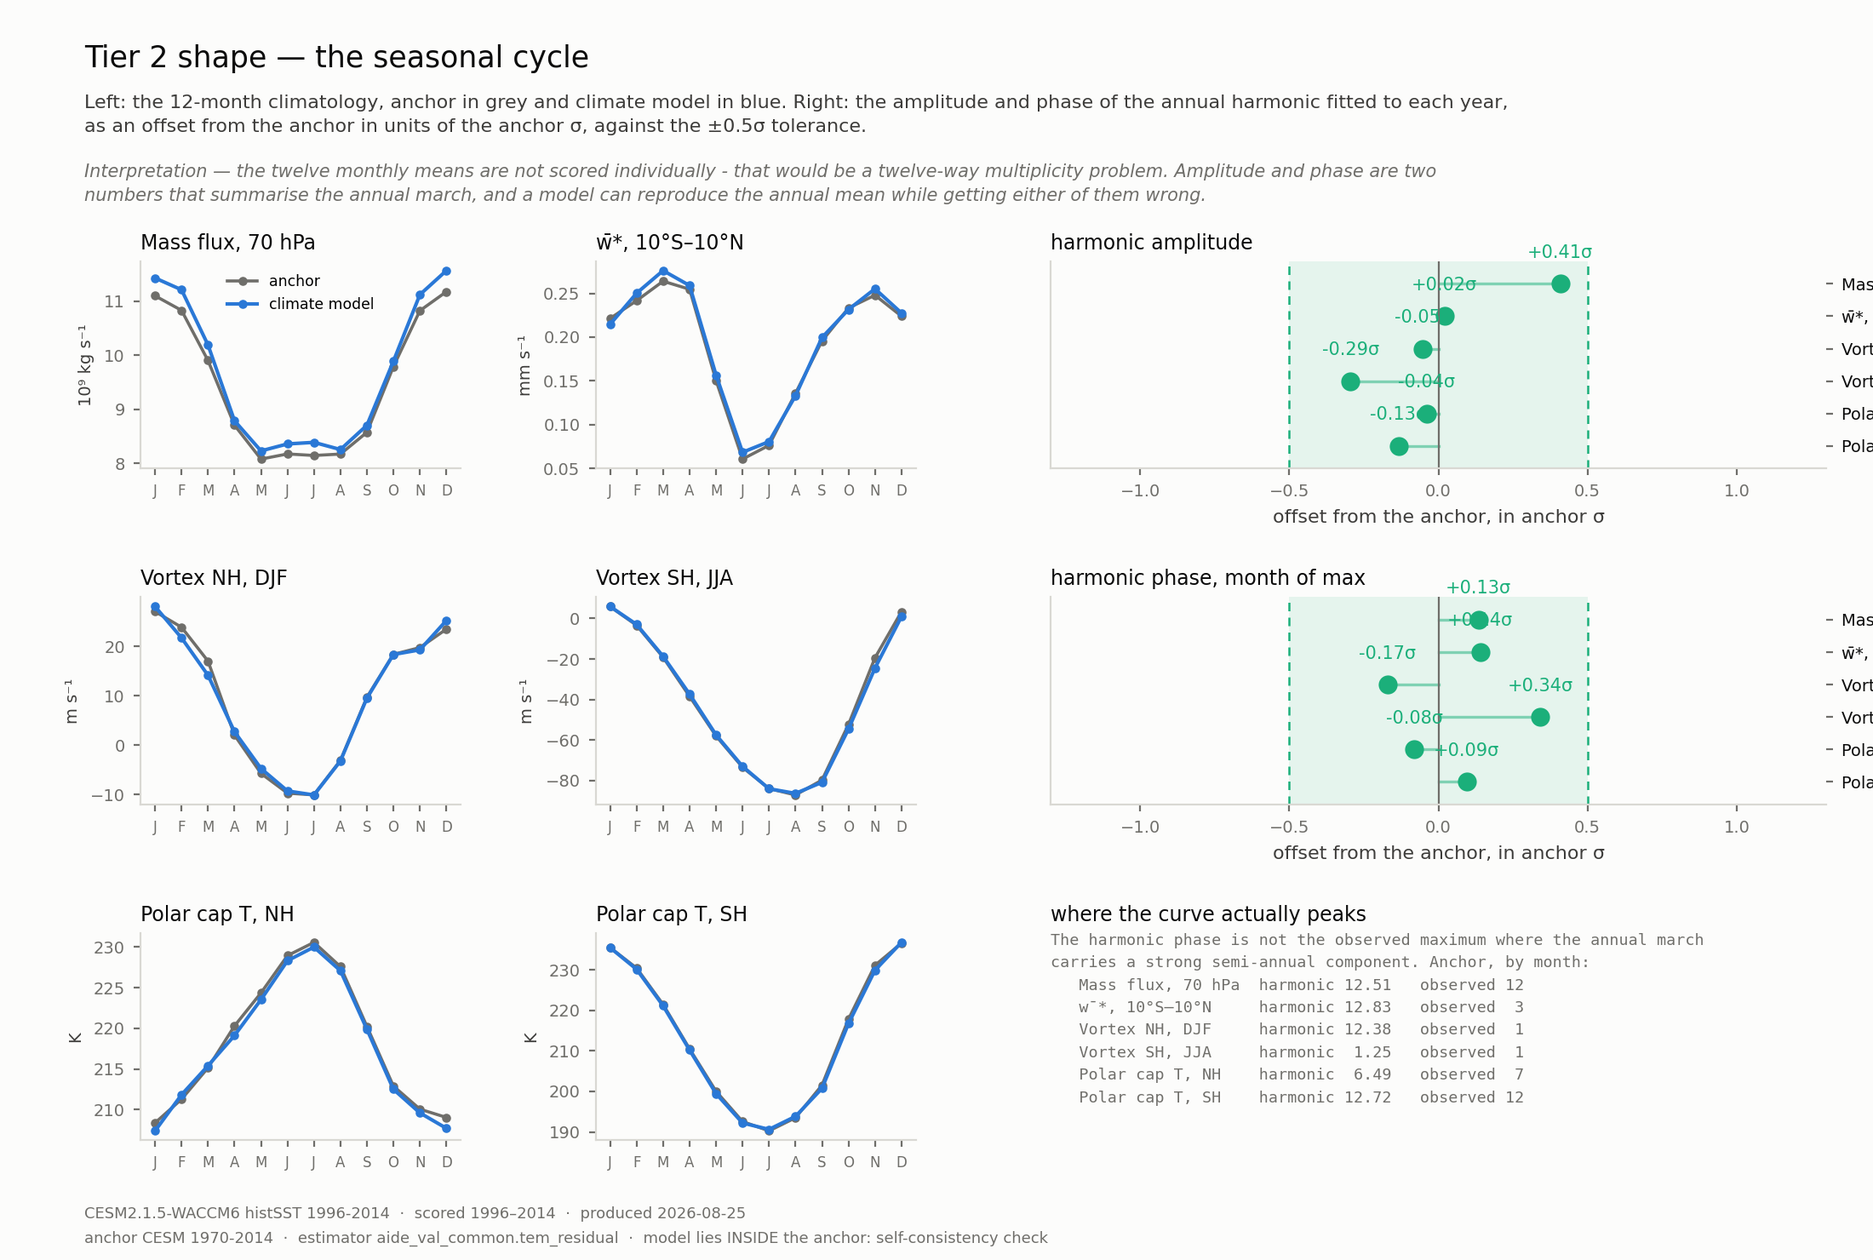
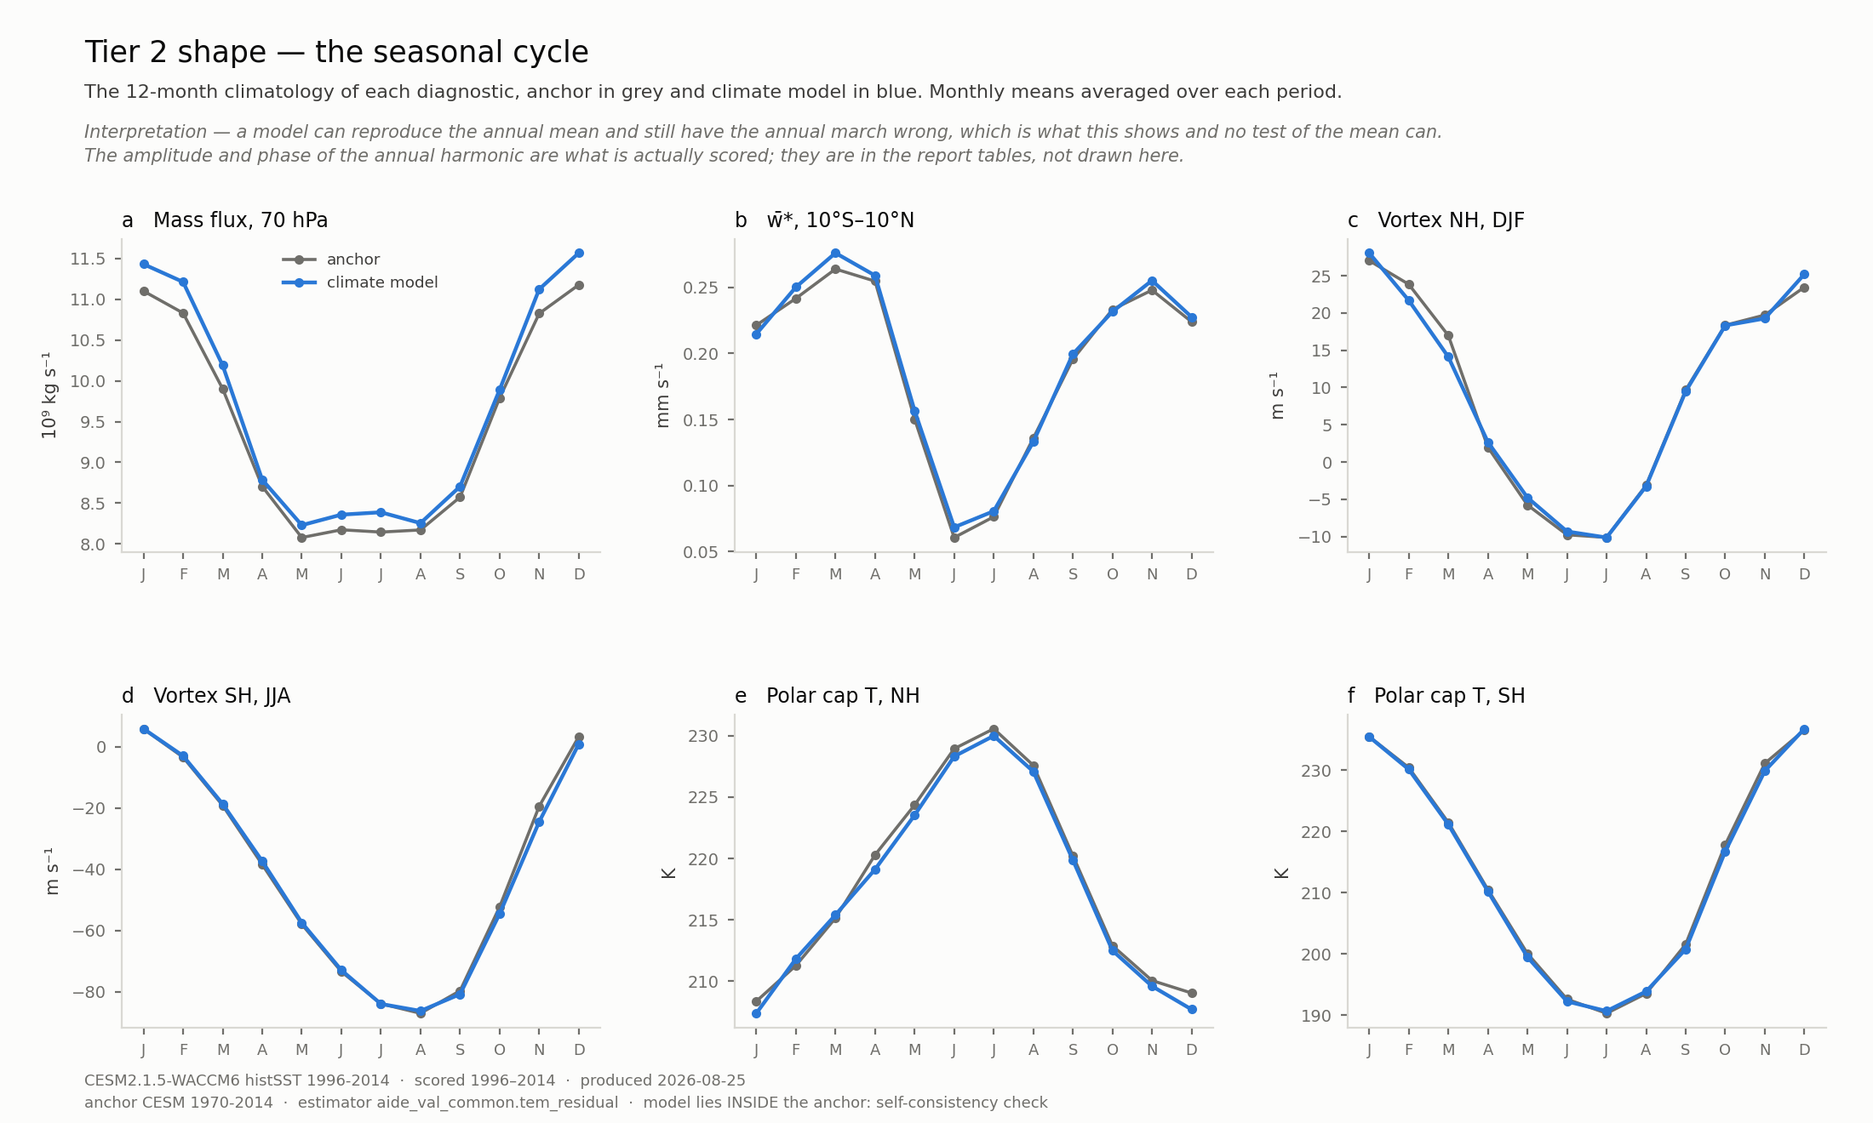
Trim the figure set to seven
Three requested changes, all to what is drawn. None of the underlying checks
changes: the annual-harmonic amplitude and phase are still fitted, gated and
tabulated in the report, the two mechanism slopes are still scored, and the
trend table is still section 3.4. Only the figures are affected.

shape_seasonal now shows the 12-month climatology alone, six panels on a 2x3
grid instead of six climatologies plus two offset panels and a text block. The
interpretation line says where the amplitude and phase verdicts live, so a
reader is not left wondering why the figure shows a curve the report scores by
two numbers.

counts_and_relations keeps the major NH SSW panel and drops the two mechanism
scatter panels, so it is a single plot rather than a strip of three. The
acceptance interval moved into the panel as a label, and the anchor rate is on
the subtitle now that there is room. The file name is unchanged and is now
slightly wide of what it holds - renaming it is a one-line change if wanted,
but it renames a committed artefact, so it is left alone.

trends is removed: the figure, the function that drew it, its call, and its row
in the report's evidence table.

fig_counts no longer needs the series, so it takes (A, res) rather than
(A, res, S, segs). Figure counts in README, CLAUDE.md and the protocol go from
eight to seven.

diff --git a/AIDE-atmosphere/scripts/18_validation_figures.py b/AIDE-atmosphere/scripts/18_validation_figures.py
@@ -7,7 +7,7 @@ at rather than a number to trust:
   tier1_screening.png       every climate-model year against the +/-3 sigma band
   tier2_mean.png            offset from the anchor against the +/-0.5 sigma tolerance
   tier2_variance.png        sigma ratios against their 95% windows
-  counts_and_relations.png  the SSW count, and the two mechanism slopes
+  counts_and_relations.png  the major NH SSW count against its Poisson interval
 
 Reads output/16_anchors_45yr__<stamp>.json, written by 17, plus the series in
 output/07_period_split.json. Run after 17.
@@ -221,16 +221,20 @@ def fig_variance(A, res):
     save(fig, "tier2_variance.png", res["stamp"])
 
 
-# ------------------------------------------------------- counts and relations
-def fig_counts(A, res, S, segs):
-    fig = newfig(11.0, 4.3, "Tier 2 — the count, and the mechanism relations",
-                 "Left: major NH sudden stratospheric warmings against the Poisson "
-                 "interval implied by the anchor rate. Right: the two mechanism "
-                 "slopes, climate-model fit against the anchor's bootstrap CI.")
+# ------------------------------------------------------------------- the count
+def fig_counts(A, res):
     s = res["counts"]["ssw_NH"]
-    ax = style(fig.add_subplot(1, 3, 1), "a   Major NH SSW",
+    fig = newfig(6.6, 4.6, "Tier 2 — the major NH SSW count",
+                 "Major sudden stratospheric warmings against the Poisson interval "
+                 "implied by the anchor rate. Blue bars are the 95% acceptance "
+                 "interval; grey bars fall outside it.",
+                 "a count, not a rate: a rate band needs about 23 winters before it "
+                 "is resolvable at all, while a count interval is well defined at any "
+                 "length (D6).")
+    ax = style(fig.add_subplot(111), None,
                f"{s['climate_model_count']} in {s['climate_model_winters']} winters · "
-               f"expect {s['expected']:.1f} · "
+               f"expect {s['expected']:.1f} · anchor rate "
+               f"{s['anchor_rate']:.3f}/winter · "
                f"{'PASS' if s['passes'] else 'FAIL'}")
     ilo, ihi = s["interval"]
     xs = np.arange(max(0, ilo - 4), ihi + 5)
@@ -239,44 +243,16 @@ def fig_counts(A, res, S, segs):
            color=[BLUE if ilo <= x <= ihi else RULE for x in xs], lw=0)
     c = PASS if s["passes"] else FAIL
     ax.axvline(s["climate_model_count"], color=c, lw=1.6)
-    ax.annotate(f"climate model {s['climate_model_count']}", (s["climate_model_count"], 1.0),
+    ax.annotate(f"climate model {s['climate_model_count']}",
+                (s["climate_model_count"], 1.0),
                 xycoords=("data", "axes fraction"), textcoords="offset points",
                 xytext=(4, -8), color=c, fontsize=7.5)
+    ax.annotate(f"accept {ilo}–{ihi} events", (0.025, 0.95),
+                xycoords="axes fraction", color=BLUE, fontsize=7.5, ha="left")
     ax.set_xlabel("events", color=INK2, fontsize=8)
     ax.set_ylabel("Poisson probability", color=INK2, fontsize=8)
-
-    lo, hi = res["climate_model_period"]
-    panels = [("R1 wave->vortex", "heat_flux_100", "vortex_NH",
-               "v'θ' 100 hPa, 45–75°N  [K m s⁻¹]", "u 60°N DJF  [m s⁻¹]"),
-              ("R2 thermal wind", "polar_cap_T_NH", "vortex_NH",
-               "polar cap T, NH  [K]", "u 60°N DJF  [m s⁻¹]")]
-    for j, (tag, xk, yk, xlab, ylab) in enumerate(panels):
-        m = res["mechanism"][tag]
-        ax = style(fig.add_subplot(1, 3, j + 2))
-        yx, vx = C.join_segments(S, segs, xk, "_djf_years")
-        yy, vy = C.join_segments(S, segs, yk, "_djf_years")
-        n = min(len(vx), len(vy))
-        inc = (yx[:n] >= lo) & (yx[:n] <= hi)
-        ax.plot(vx[:n][~inc], vy[:n][~inc], "o", ms=3, color=RULE, mec="none")
-        ax.plot(vx[:n][inc], vy[:n][inc], "o", ms=3.6, color=BLUE, mec="none")
-        xx = np.linspace(vx[:n].min(), vx[:n].max(), 2)
-        a_int = vy[:n].mean() - m["anchor_slope"] * vx[:n].mean()
-        ax.plot(xx, m["anchor_slope"] * xx + a_int, color=MUTED, lw=1.1,
-                label=f"anchor {m['anchor_slope']:+.2f}")
-        c_int = (vy[:n][inc].mean() - m["climate_model_slope"] * vx[:n][inc].mean())
-        col = PASS if m["passes"] else FAIL
-        ax.plot(xx, m["climate_model_slope"] * xx + c_int, color=col, lw=1.4,
-                label=f"climate model {m['climate_model_slope']:+.2f}")
-        lg = ax.legend(frameon=False, fontsize=7, loc="best")
-        for t in lg.get_texts():
-            t.set_color(INK2)
-        ax.set_xlabel(xlab, color=INK2, fontsize=7.5)
-        ax.set_ylabel(ylab, color=INK2, fontsize=7.5)
-        style(ax, f"{'bc'[j]}   {tag}",
-              f"anchor CI {m['anchor_ci95'][0]:+.2f} to "
-              f"{m['anchor_ci95'][1]:+.2f} · "
-              f"{'PASS' if m['passes'] else 'FAIL'}")
-    fig.subplots_adjust(left=0.06, right=0.985, top=fig.text_bottom - 0.098, bottom=0.19, wspace=0.30)
+    fig.subplots_adjust(left=0.135, right=0.965, top=fig.text_bottom - 0.075,
+                        bottom=0.135)
     footer(fig, res)
     save(fig, "counts_and_relations.png", res["stamp"])
 
@@ -311,58 +287,31 @@ def _tolerance_axis(ax, offsets, xlabel, n):
 
 
 def fig_seasonal(A, res):
-    fig = newfig(11.0, 7.4, "Tier 2 shape — the seasonal cycle",
-                 "Left: the 12-month climatology, anchor in grey and climate model "
-                 "in blue. Right: the amplitude and phase of the annual harmonic "
-                 "fitted to each year, as an offset from the anchor in units of the "
-                 "anchor σ, against the ±0.5σ tolerance.",
-                 "the twelve monthly means are not scored individually - that would "
-                 "be a twelve-way multiplicity problem. Amplitude and phase are two "
-                 "numbers that summarise the annual march, and a model can reproduce "
-                 "the annual mean while getting either of them wrong.")
-    gs = fig.add_gridspec(3, 4, hspace=0.62, wspace=0.42)
+    fig = newfig(11.0, 6.6, "Tier 2 shape — the seasonal cycle",
+                 "The 12-month climatology of each diagnostic, anchor in grey and "
+                 "climate model in blue. Monthly means averaged over each period.",
+                 "a model can reproduce the annual mean and still have the annual "
+                 "march wrong, which is what this shows and no test of the mean can. "
+                 "The amplitude and phase of the annual harmonic are what is actually "
+                 "scored; they are in the report tables, not drawn here.")
+    gs = fig.add_gridspec(2, 3, hspace=0.52, wspace=0.28)
     x = np.arange(1, 13)
     for i, (key, _, label, unit) in enumerate(SERIES):
-        ax = style(fig.add_subplot(gs[i // 2, i % 2]), label)
+        ax = style(fig.add_subplot(gs[i // 3, i % 3]), f"{'abcdef'[i]}   {label}")
         r = res["shape_seasonal"][key]
-        ax.plot(x, r["anchor_climatology"], "-o", color=MUTED, lw=1.3, ms=2.8,
+        ax.plot(x, r["anchor_climatology"], "-o", color=MUTED, lw=1.3, ms=3.0,
                 label="anchor")
-        ax.plot(x, r["climate_model_climatology"], "-o", color=BLUE, lw=1.5, ms=2.8,
+        ax.plot(x, r["climate_model_climatology"], "-o", color=BLUE, lw=1.6, ms=3.0,
                 label="climate model")
         ax.set_xticks(x)
-        ax.set_xticklabels(list(MONTH_INITIALS), fontsize=6)
-        ax.set_ylabel(unit, color=INK2, fontsize=7)
+        ax.set_xticklabels(list(MONTH_INITIALS), fontsize=6.5)
+        ax.set_ylabel(unit, color=INK2, fontsize=7.5)
         if i == 0:
-            ax.legend(fontsize=6.2, frameon=False, loc="best")
-
-    for j, (which, title) in enumerate((("amplitude", "amplitude"),
-                                        ("phase", "phase, month of max"))):
-        ax = style(fig.add_subplot(gs[j if j == 0 else 1, 2:]),
-                   f"harmonic {title}")
-        keys = [k for k, *_ in SERIES][::-1]
-        offs = [res["shape_seasonal"][k][which]["offset_in_sigma"] for k in keys]
-        for i, k in enumerate(keys):
-            _offset_row(ax, i, res["shape_seasonal"][k][which])
-        _tolerance_axis(ax, offs, "offset from the anchor, in anchor σ", len(keys))
-        # ticks on the right: on the left they run back into the climatology column
-        ax.yaxis.tick_right()
-        ax.set_yticks(range(len(keys)))
-        ax.set_yticklabels([l for _, _, l, _ in SERIES][::-1], fontsize=7,
-                           color=INK)
-
-    ax = style(fig.add_subplot(gs[2, 2:]), "where the curve actually peaks")
-    ax.axis("off")
-    lines = ["The harmonic phase is not the observed maximum where the annual march",
-             "carries a strong semi-annual component. Anchor, by month:"]
-    for key, _, label, _ in SERIES:
-        r = res["shape_seasonal"][key]
-        lines.append(f"   {label:18s} harmonic {r['phase']['anchor'] + 1:5.2f}   "
-                     f"observed {r['month_of_max_observed']:2d}")
-    ax.text(0, 1.0, "\n".join(lines), transform=ax.transAxes, va="top",
-            color=MUTED, fontsize=6.6, family="DejaVu Sans Mono", linespacing=1.6)
-
-    fig.subplots_adjust(left=0.075, right=0.975, top=fig.text_bottom - 0.035,
-                        bottom=0.095)
+            lg = ax.legend(fontsize=6.6, frameon=False, loc="best")
+            for t in lg.get_texts():
+                t.set_color(INK2)
+    fig.subplots_adjust(left=0.065, right=0.975, top=fig.text_bottom - 0.055,
+                        bottom=0.085)
     footer(fig, res)
     save(fig, "shape_seasonal.png", res["stamp"])
 
@@ -494,7 +443,7 @@ def main():
     fig_tier1(A, res, S, segs)
     fig_mean(A, res)
     fig_variance(A, res)
-    fig_counts(A, res, S, segs)
+    fig_counts(A, res)
     fig_seasonal(A, res)
     fig_daily_distribution(A, res)
     fig_w_star_profile(A, res)

diff --git a/AIDE-atmosphere/scripts/17_validate.py b/AIDE-atmosphere/scripts/17_validate.py
@@ -73,10 +73,9 @@ FIGURES = [
     ("tier2_variance.png",
      "tier 2 variance — σ ratios against their 95% windows, interannual and daily"),
     ("counts_and_relations.png",
-     "SSW count against its Poisson interval; R1 and R2 slopes against the anchor fit"),
+     "major NH SSW count against the Poisson interval implied by the anchor rate"),
     ("shape_seasonal.png",
-     "seasonal cycle — the 12-month climatology, and the annual-harmonic "
-     "amplitude and phase against their tolerances"),
+     "seasonal cycle — the 12-month climatology of each diagnostic"),
     ("shape_daily_distribution.png",
      "daily distribution — per-winter percentiles of u at 60°N against the anchor"),
     ("shape_w_star_profile.png",
@@ -183,7 +182,7 @@ def main():
            "estimator": "aide_val_common.tem_residual",
            "inside_anchor": bool(lo >= A["anchor_years"][0] and hi <= A["anchor_years"][1]),
            "tier1": {}, "tier2_mean": {}, "tier2_variance": {}, "counts": {},
-           "mechanism": {}}
+           "mechanism": {}, "trend": {}}
 
     print(f"CLIMATE MODEL {climate_model}  {lo}-{hi}  vs  ANCHOR {A['anchor_period']}")
     if res["inside_anchor"]:
@@ -238,6 +237,13 @@ def main():
             climate_model_sigma=T["sigma_used"], climate_model_detrended=T["detrended"],
             ratio=float(ratio), window=[rlo, rhi],
             passes=bool(rlo <= ratio <= rhi))
+        res["trend"][key] = dict(
+            units=unit + " per decade", anchor=a["trend_per_decade"],
+            climate_model=T["trend_per_decade"],
+            se_at_climate_model_n=float(a["trend_se_per_decade"]
+                                    * (a["n"] / n) ** 1.5),
+            resolvable=bool(abs(a["trend_per_decade"])
+                            > 1.96 * a["trend_se_per_decade"] * (a["n"] / n) ** 1.5))
         m, vr = res["tier2_mean"][key], res["tier2_variance"][key]
         print(f"  {label:20s} mean {m['offset_in_sigma']:+5.2f}s / "
               f"{m['tolerance_in_sigma']:.2f}s  {mark(m)}"
@@ -582,6 +588,16 @@ def write_markdown(res, A, out_m):
         w(f"| {tag} | {m['anchor_slope']:+.3f} | {m['climate_model_slope']:+.3f} | "
           f"{m['anchor_ci95'][0]:+.3f} – {m['anchor_ci95'][1]:+.3f} | "
           f"{verdict(m['passes'])} |")
+    w("")
+    w(f"## Trends, and whether n = {res['tier2_mean']['mass_flux']['n']} resolves them")
+    w("")
+    w("| Trend, per decade | Anchor | Climate model | 1.96σ at this n | Resolvable |")
+    w("|---|---|---|---|---|")
+    for key, _, label, unit, dp in SERIES:
+        t = res["trend"][key]
+        w(f"| {label} | {t['anchor']:+.4f} | {t['climate_model']:+.4f} | "
+          f"±{1.96 * t['se_at_climate_model_n']:.4f} | "
+          f"{'yes' if t['resolvable'] else 'no'} |")
     w("")
     w("## Flags")
     w("")

diff --git a/AIDE-atmosphere/validation_results/validation_result__CESM2.1.5-WACCM6-histSST-1996-2014__2026-08-25.md b/AIDE-atmosphere/validation_results/validation_result__CESM2.1.5-WACCM6-histSST-1996-2014__2026-08-25.md
@@ -136,9 +136,8 @@ The gate is on the profile divided by its own vertical mean, which cancels a mul
 | [tier1_screening__CESM2.1.5-WACCM6-histSST-1996-2014__2026-08-25.png](tier1_screening__CESM2.1.5-WACCM6-histSST-1996-2014__2026-08-25.png) | tier 1 — every climate-model year against the ±3σ band, six diagnostics |
 | [tier2_mean__CESM2.1.5-WACCM6-histSST-1996-2014__2026-08-25.png](tier2_mean__CESM2.1.5-WACCM6-histSST-1996-2014__2026-08-25.png) | tier 2 mean — offset from the anchor against the ±0.5σ tolerance |
 | [tier2_variance__CESM2.1.5-WACCM6-histSST-1996-2014__2026-08-25.png](tier2_variance__CESM2.1.5-WACCM6-histSST-1996-2014__2026-08-25.png) | tier 2 variance — σ ratios against their 95% windows, interannual and daily |
-| [counts_and_relations__CESM2.1.5-WACCM6-histSST-1996-2014__2026-08-25.png](counts_and_relations__CESM2.1.5-WACCM6-histSST-1996-2014__2026-08-25.png) | SSW count against its Poisson interval; R1 and R2 slopes against the anchor fit |
-| [trends__CESM2.1.5-WACCM6-histSST-1996-2014__2026-08-25.png](trends__CESM2.1.5-WACCM6-histSST-1996-2014__2026-08-25.png) | trends per decade, anchor against climate model, with what this n resolves |
-| [shape_seasonal__CESM2.1.5-WACCM6-histSST-1996-2014__2026-08-25.png](shape_seasonal__CESM2.1.5-WACCM6-histSST-1996-2014__2026-08-25.png) | seasonal cycle — the 12-month climatology, and the annual-harmonic amplitude and phase against their tolerances |
+| [counts_and_relations__CESM2.1.5-WACCM6-histSST-1996-2014__2026-08-25.png](counts_and_relations__CESM2.1.5-WACCM6-histSST-1996-2014__2026-08-25.png) | major NH SSW count against the Poisson interval implied by the anchor rate |
+| [shape_seasonal__CESM2.1.5-WACCM6-histSST-1996-2014__2026-08-25.png](shape_seasonal__CESM2.1.5-WACCM6-histSST-1996-2014__2026-08-25.png) | seasonal cycle — the 12-month climatology of each diagnostic |
 | [shape_daily_distribution__CESM2.1.5-WACCM6-histSST-1996-2014__2026-08-25.png](shape_daily_distribution__CESM2.1.5-WACCM6-histSST-1996-2014__2026-08-25.png) | daily distribution — per-winter percentiles of u at 60°N against the anchor |
 | [shape_w_star_profile__CESM2.1.5-WACCM6-histSST-1996-2014__2026-08-25.png](shape_w_star_profile__CESM2.1.5-WACCM6-histSST-1996-2014__2026-08-25.png) | tropical w* profile — absolute (advisory) and normalised (gated) |
 

diff --git a/AIDE-atmosphere/docs/EVALUATION_PROTOCOL.md b/AIDE-atmosphere/docs/EVALUATION_PROTOCOL.md
@@ -295,7 +295,7 @@ $PY scripts/18_validation_figures.py
 ```
 
 Writes [`../validation_results/validation_result.md`](../validation_results/)
-and eight figures beside it, one per test family. Climate-model data enters through
+and seven figures beside it. Climate-model data enters through
 `17_validate.climate_model_series`, which is the one function to replace when the model is a
 model rollout rather than a window of CESM's own record — the three shape checks of §3.5 come
 through that same function, so a rollout scores everything in one pass.
@@ -526,7 +526,7 @@ each profile level year by year, and the per-winter DJF percentiles. They are co
 tape stage on purpose, so that `16`, `17` and `18` stay JSON-only and fast.
 
 Every scored result is stamped `__<climate model>__<production date>`, so the report, its
-eight figures and the JSON behind them carry the name of what was scored and the day it was
+seven figures and the JSON behind them carry the name of what was scored and the day it was
 produced. `18` takes the stamp from `17`'s JSON rather than recomputing it, so a run that
 crosses midnight cannot split its own figures from its report.
 
@@ -706,7 +706,7 @@ see appendix C.
 
 - §4 — the fields, resolution and grid a model must supply to be scored
 - [../validation_results/validation_result.md](../validation_results/) —
-  a scored climate model, with the eight figures beside it
+  a scored climate model, with the seven figures beside it
 - [../stale/README.md](../stale/README.md) — the split-anchor material §2 cites
 - Appendix A — where `0.5σ` and `1.96σ/√n` come from
 - Appendix B — the decisions cited above by number

diff --git a/CLAUDE.md b/CLAUDE.md
@@ -65,7 +65,7 @@ Authoritative outputs: `output/16_anchors_45yr.json` (the thresholds, both tiers
 CESM 1970–2014) and `output/17_validation__<stamp>.json` (a scored climate model).
 The protocol is `docs/EVALUATION_PROTOCOL.md`, and it is self-contained — thresholds,
 derivation (appendix A), decisions (appendix B) and limitations (appendix C) in one file.
-`validation_results/` holds a scored climate model as `validation_result__<stamp>.md` plus eight figures,
+`validation_results/` holds a scored climate model as `validation_result__<stamp>.md` plus seven figures,
 all generated from the same JSON, so they cannot drift apart.
 
 The repo was trimmed to this protocol on 2026-08-19. Removed and **not retained**: the
@@ -107,7 +107,7 @@ every bare path in this file is relative to it.
 | Output dir | `C.OUTDIR` in `scripts/aide_val_common.py`, derived from `__file__` as `<AIDE-atmosphere>/output`; `output/` and `logs/` are gitignored |
 
 Reproduce in order (from `AIDE-atmosphere/scripts/`, `PY=../../.AIDE-eval_env/bin/python`, ~5 min total;
-verified to rebuild every JSON, the report and all eight PNGs bit-for-bit from the tape):
+verified to rebuild every JSON, the report and all seven PNGs bit-for-bit from the tape):
 
 ```bash
 $PY 02_reference_stats.py && $PY 02b_trends.py && $PY 07_period_split.py \

diff --git a/README.md b/README.md
@@ -129,7 +129,7 @@ AIDE-atmosphere/       everything else lives here
   scripts/             02, 02b, 07, 16, 17, 18 + aide_val_common.py, report_layout.py
                        01, 01b, 01c, 01d — convention evidence, outside the pipeline
   docs/                the protocol
-  validation_results/  a scored climate model: validation_result__<stamp>.md and eight figures
+  validation_results/  a scored climate model: validation_result__<stamp>.md and seven figures
   stale/               superseded material, kept — see stale/README.md
   output/              JSON results            — generated, gitignored
   logs/                stdout of every run     — generated, gitignored
